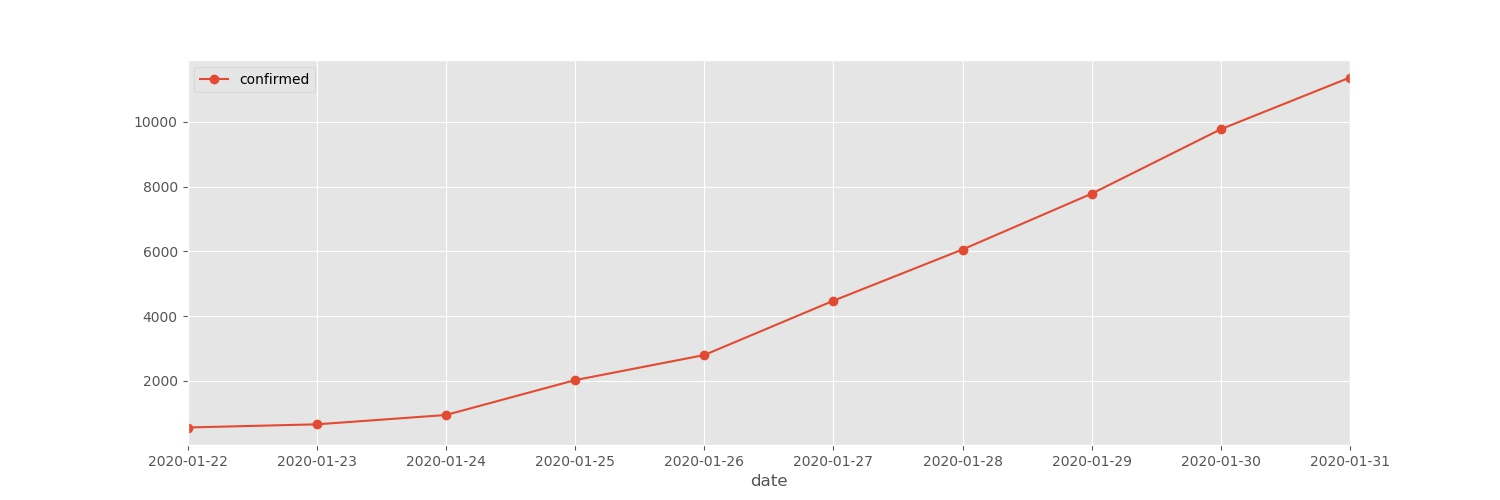
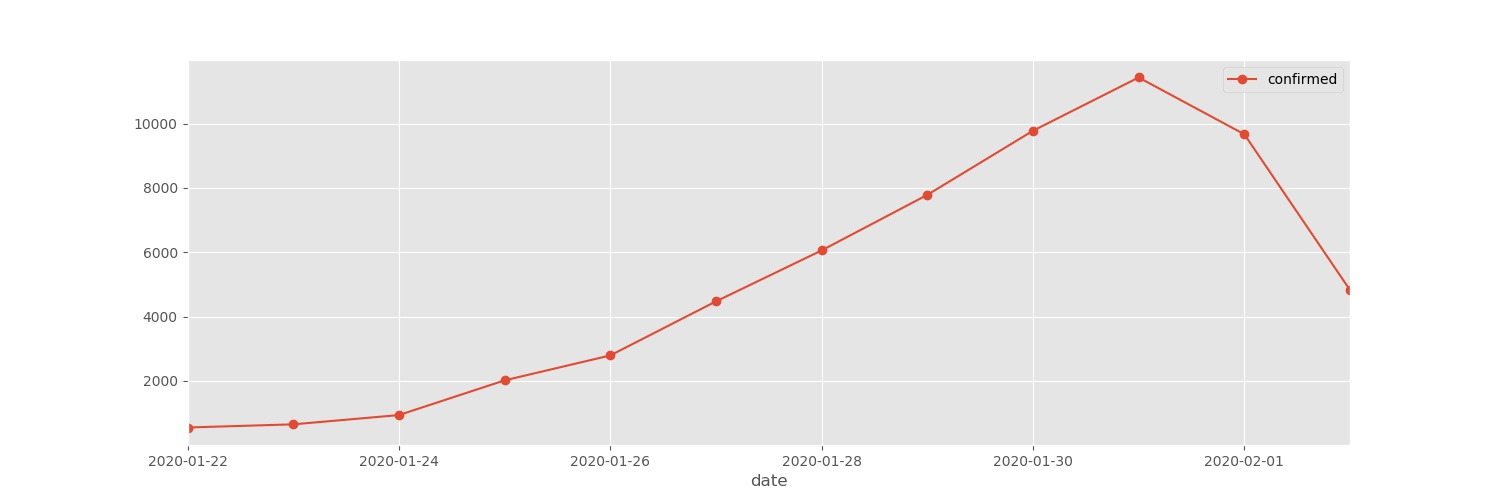
ADD - new report 2nd feb

diff --git a/README.md b/README.md
@@ -19,7 +19,7 @@ This repo is for analysis on the [corona virus](https://www.who.int/health-topic
 
 This plots will be updated <u>daily</u> to visualize the trend in aggregated sums and the daily counts for 3 attributes: **<i>Confirmed Cases, Deaths and Recoveries.</i>**
 
-Last updated:  `2020-02-01`
+Last updated:  `2020-02-02`
 
 **Confirmed Cases**
 
